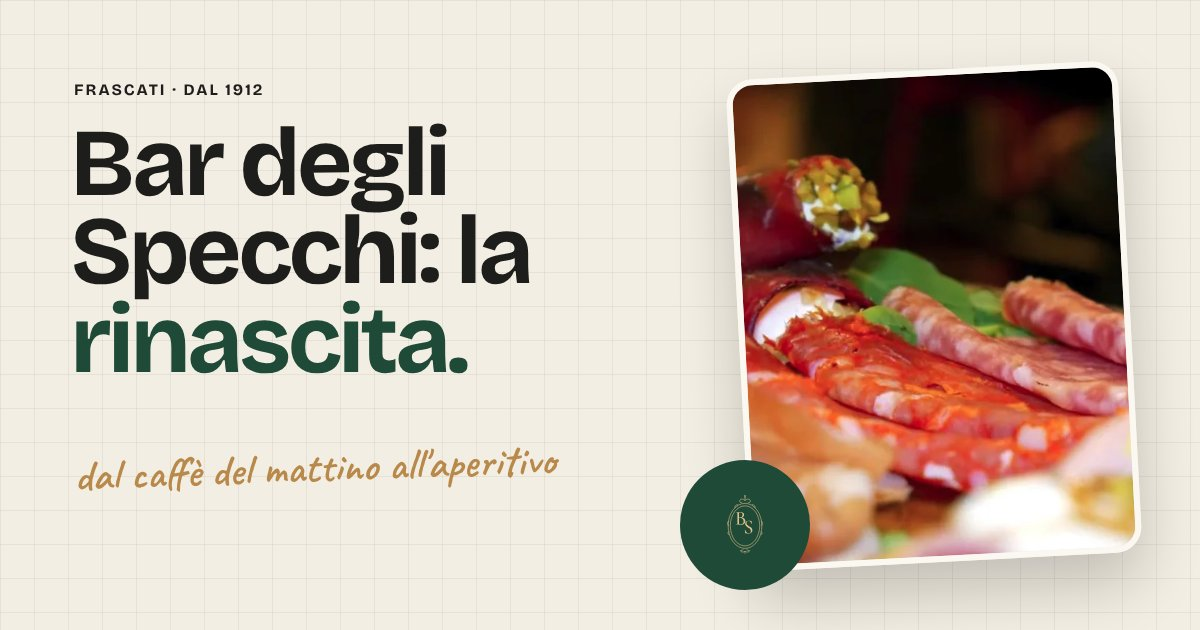
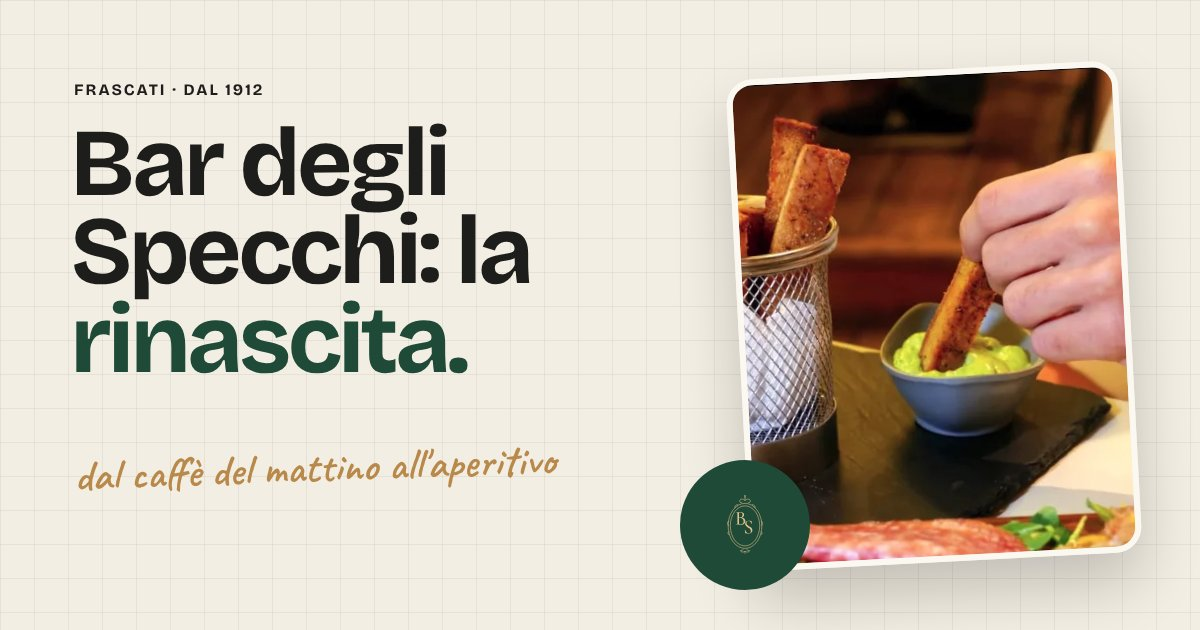
Aperitivo stagionale: via elenco piatti e foto tagliere, card menu completo
Claude-Session: https://claude.ai/code/session_019L5PrVp5pT1zrgUaSdbt61

Changed region(s): [[0.6167, 0.0905, 0.9558, 0.9048]]

diff --git a/public/index.html b/public/index.html
@@ -4,7 +4,7 @@
   <meta charset="utf-8">
   <meta name="viewport" content="width=device-width, initial-scale=1, viewport-fit=cover">
   <title>Bar degli Specchi — Bar e aperitivo a Frascati dal 1912</title>
-  <meta name="description" content="Bar degli Specchi, dal 1912 in via Cesare Battisti 3 a Frascati. Dal caffè del mattino all'aperitivo della sera: taglieri, pinsa gourmet e cocktail.">
+  <meta name="description" content="Bar degli Specchi, dal 1912 in via Cesare Battisti 3 a Frascati. Dal caffè del mattino all'aperitivo della sera: spritz, cocktail e proposte di stagione.">
   <meta name="robots" content="noindex, nofollow">
   <link rel="canonical" href="https://bardeglispecchi3.yuvraj-chander.workers.dev/">
   <meta name="theme-color" content="#f3eee3">
@@ -24,7 +24,7 @@
   <link rel="manifest" href="/site.webmanifest">
   <link rel="preload" href="/assets/fonts/bricolage-grotesque-latin-700-normal.woff2" as="font" type="font/woff2" crossorigin>
   <link rel="preload" href="/assets/fonts/caveat-latin-600-normal.woff2" as="font" type="font/woff2" crossorigin>
-  <link rel="stylesheet" href="/assets/css/style.css?v=3">
+  <link rel="stylesheet" href="/assets/css/style.css?v=4">
   <link rel="stylesheet" href="/assets/css/cookie-consent.css?v=1">
   <script src="/assets/js/main.js?v=3" defer></script>
   <script src="/assets/js/cookie-consent.js?v=1" defer></script>
@@ -91,7 +91,7 @@
           </div>
         </div>
         <div class="hero__media" data-in>
-          <figure class="pcard pcard--a"><img src="/assets/img/tagliere-salumi-736.webp" srcset="/assets/img/tagliere-salumi-480.webp 480w, /assets/img/tagliere-salumi-736.webp 736w" sizes="(max-width: 860px) 80vw, 36vw" width="736" height="512" alt="Tagliere con cannoli di bresaola al pistacchio e salumi selezionati" fetchpriority="high"></figure>
+          <figure class="pcard pcard--a"><img src="/assets/img/aperitivo-crostini-736.webp" srcset="/assets/img/aperitivo-crostini-480.webp 480w, /assets/img/aperitivo-crostini-736.webp 736w" sizes="(max-width: 860px) 80vw, 36vw" width="736" height="512" alt="Crostini croccanti intinti nella crema dello chef, all'aperitivo" fetchpriority="high"></figure>
           <figure class="pcard pcard--b"><img src="/assets/img/pinsa-gourmet-480.webp" width="480" height="334" alt="Trancio di pinsa gourmet con crema di formaggio e glassa balsamica" decoding="async"></figure>
           <div class="badge" aria-hidden="true">
             <svg class="badge__ring" viewBox="0 0 200 200"><defs><path id="circ" d="M100,100 m-78,0 a78,78 0 1,1 156,0 a78,78 0 1,1 -156,0"/></defs><text><textPath href="#circ" startOffset="0">BAR DEGLI SPECCHI · DAL 1912 · FRASCATI · </textPath></text></svg>
@@ -113,7 +113,7 @@
 <ellipse class="fr fr-i" cx="200" cy="128" rx="47" ry="64"/>
 <path class="fr fr-orn" d="M200 47c-6-7-16-6-17 1-1 5 5 8 8 4M200 47c6-7 16-6 17 1 1 5-5 8-8 4M200 47v-9m0 0c-3-4-1-8 0-9 1 1 3 5 0 9M178 60c-8 0-12 6-10 11M222 60c8 0 12 6 10 11M148 112c-5 4-5 12 0 16M252 112c5 4 5 12 0 16M148 146c-4 3-3 9 1 11M252 146c4 3 3 9-1 11M200 209c-5 4-13 4-15-2 4 0 8-1 10-4M200 209c5 4 13 4 15-2-4 0-8-1-10-4M200 209v8"/><path class="mono" d="M187.1 102.2 187.8 101.4Q191.8 101.4 194.7 102.8Q197.7 104.2 199.3 106.7Q201 109.1 201 112.3Q201 115.7 199.2 118.4Q197.5 121.1 194.4 122.7Q191.4 124.3 187.6 124.3Q185.7 124.3 183.1 124.1Q180.4 123.9 178.3 123.9Q176.1 123.9 174.1 123.9Q172.1 124 170.5 124Q170.3 124 170.3 123.6Q170.3 123.2 170.5 123.2Q172.6 123.2 173.8 122.9Q174.9 122.6 175.3 121.6Q175.8 120.7 175.8 118.8V89.2Q175.8 87.3 175.4 86.4Q175 85.5 173.9 85.1Q172.8 84.8 170.6 84.8Q170.4 84.8 170.4 84.4Q170.4 84 170.6 84Q172.2 84 174.1 84.1Q176.1 84.2 178.3 84.2Q180 84.2 182.1 84Q184.2 83.8 185.9 83.8Q189.7 83.8 192.2 84.9Q194.6 85.9 195.9 87.8Q197.1 89.7 197.1 92.2Q197.1 95.8 194.4 98.5Q191.7 101.2 187.1 102.2ZM184.7 84.9Q183.2 84.9 182.4 85.2Q181.5 85.5 181.2 86.4Q180.8 87.3 180.8 89.3V101.9L178.7 101.3Q180.8 101.5 182.1 101.5Q183.4 101.5 183.6 101.5Q188.1 101.5 190.1 99Q192.1 96.4 192.1 92.7Q192.1 90.4 191.3 88.6Q190.5 86.9 188.9 85.9Q187.3 84.9 184.7 84.9ZM186.6 123Q191.2 123 193.4 120.6Q195.5 118.2 195.5 113.8Q195.5 109.1 192.9 106Q190.3 103 185.2 103Q184 102.9 182.3 103Q180.6 103.1 178.9 103.3L180.8 102.6V118.8Q180.8 120.3 181.2 121.2Q181.6 122.1 182.9 122.6Q184.1 123 186.6 123Z"/><path class="mono" d="M204.9 119.2Q204.9 121.7 206.2 123.6Q207.4 125.4 209.5 126.9Q211.5 128.3 213.8 129.7Q216.2 131.1 218.4 132.7Q220.6 134.3 222.1 136.5Q223.5 138.6 223.5 141.7Q223.5 144.8 221.9 147.3Q220.2 149.8 217.3 151.3Q214.3 152.8 210.1 152.8Q208.5 152.8 206.8 152.5Q205.1 152.2 203.5 151.7Q202 151.2 200.7 150.4Q200.5 150.2 200.3 150Q200.2 149.7 200.2 149.2L199.5 140Q199.4 139.7 199.8 139.7Q200.2 139.6 200.2 139.9Q200.8 141.9 201.8 143.9Q202.7 146 204.1 147.7Q205.4 149.4 207.3 150.5Q209.2 151.6 211.7 151.6Q213.4 151.6 215 150.9Q216.7 150.3 217.7 148.8Q218.7 147.3 218.7 144.6Q218.7 141.5 217.4 139.4Q216 137.3 213.9 135.7Q211.8 134.2 209.4 132.8Q207.2 131.4 205.1 129.9Q203 128.3 201.8 126.3Q200.5 124.3 200.5 121.4Q200.5 118 202.3 115.7Q204.1 113.5 207 112.4Q209.8 111.3 212.8 111.3Q214.8 111.3 216.9 111.7Q218.9 112.1 220.6 112.8Q221.1 113 221.3 113.3Q221.5 113.6 221.5 113.9L221.8 121.9Q221.8 122.1 221.5 122.2Q221.2 122.2 221.1 122Q220.9 120.9 220.2 119.3Q219.6 117.6 218.5 116.1Q217.4 114.5 215.7 113.4Q214 112.4 211.6 112.4Q209.4 112.4 207.9 113.3Q206.4 114.2 205.7 115.7Q204.9 117.2 204.9 119.2Z"/></svg></span><span class="band__item">Taglieri<svg class="mark band__mark" viewBox="136 26 128 200"><ellipse class="fr fr-o" cx="200" cy="128" rx="54" ry="72"/>
 <ellipse class="fr fr-i" cx="200" cy="128" rx="47" ry="64"/>
-<path class="fr fr-orn" d="M200 47c-6-7-16-6-17 1-1 5 5 8 8 4M200 47c6-7 16-6 17 1 1 5-5 8-8 4M200 47v-9m0 0c-3-4-1-8 0-9 1 1 3 5 0 9M178 60c-8 0-12 6-10 11M222 60c8 0 12 6 10 11M148 112c-5 4-5 12 0 16M252 112c5 4 5 12 0 16M148 146c-4 3-3 9 1 11M252 146c4 3 3 9-1 11M200 209c-5 4-13 4-15-2 4 0 8-1 10-4M200 209c5 4 13 4 15-2-4 0-8-1-10-4M200 209v8"/><path class="mono" d="M187.1 102.2 187.8 101.4Q191.8 101.4 194.7 102.8Q197.7 104.2 199.3 106.7Q201 109.1 201 112.3Q201 115.7 199.2 118.4Q197.5 121.1 194.4 122.7Q191.4 124.3 187.6 124.3Q185.7 124.3 183.1 124.1Q180.4 123.9 178.3 123.9Q176.1 123.9 174.1 123.9Q172.1 124 170.5 124Q170.3 124 170.3 123.6Q170.3 123.2 170.5 123.2Q172.6 123.2 173.8 122.9Q174.9 122.6 175.3 121.6Q175.8 120.7 175.8 118.8V89.2Q175.8 87.3 175.4 86.4Q175 85.5 173.9 85.1Q172.8 84.8 170.6 84.8Q170.4 84.8 170.4 84.4Q170.4 84 170.6 84Q172.2 84 174.1 84.1Q176.1 84.2 178.3 84.2Q180 84.2 182.1 84Q184.2 83.8 185.9 83.8Q189.7 83.8 192.2 84.9Q194.6 85.9 195.9 87.8Q197.1 89.7 197.1 92.2Q197.1 95.8 194.4 98.5Q191.7 101.2 187.1 102.2ZM184.7 84.9Q183.2 84.9 182.4 85.2Q181.5 85.5 181.2 86.4Q180.8 87.3 180.8 89.3V101.9L178.7 101.3Q180.8 101.5 182.1 101.5Q183.4 101.5 183.6 101.5Q188.1 101.5 190.1 99Q192.1 96.4 192.1 92.7Q192.1 90.4 191.3 88.6Q190.5 86.9 188.9 85.9Q187.3 84.9 184.7 84.9ZM186.6 123Q191.2 123 193.4 120.6Q195.5 118.2 195.5 113.8Q195.5 109.1 192.9 106Q190.3 103 185.2 103Q184 102.9 182.3 103Q180.6 103.1 178.9 103.3L180.8 102.6V118.8Q180.8 120.3 181.2 121.2Q181.6 122.1 182.9 122.6Q184.1 123 186.6 123Z"/><path class="mono" d="M204.9 119.2Q204.9 121.7 206.2 123.6Q207.4 125.4 209.5 126.9Q211.5 128.3 213.8 129.7Q216.2 131.1 218.4 132.7Q220.6 134.3 222.1 136.5Q223.5 138.6 223.5 141.7Q223.5 144.8 221.9 147.3Q220.2 149.8 217.3 151.3Q214.3 152.8 210.1 152.8Q208.5 152.8 206.8 152.5Q205.1 152.2 203.5 151.7Q202 151.2 200.7 150.4Q200.5 150.2 200.3 150Q200.2 149.7 200.2 149.2L199.5 140Q199.4 139.7 199.8 139.7Q200.2 139.6 200.2 139.9Q200.8 141.9 201.8 143.9Q202.7 146 204.1 147.7Q205.4 149.4 207.3 150.5Q209.2 151.6 211.7 151.6Q213.4 151.6 215 150.9Q216.7 150.3 217.7 148.8Q218.7 147.3 218.7 144.6Q218.7 141.5 217.4 139.4Q216 137.3 213.9 135.7Q211.8 134.2 209.4 132.8Q207.2 131.4 205.1 129.9Q203 128.3 201.8 126.3Q200.5 124.3 200.5 121.4Q200.5 118 202.3 115.7Q204.1 113.5 207 112.4Q209.8 111.3 212.8 111.3Q214.8 111.3 216.9 111.7Q218.9 112.1 220.6 112.8Q221.1 113 221.3 113.3Q221.5 113.6 221.5 113.9L221.8 121.9Q221.8 122.1 221.5 122.2Q221.2 122.2 221.1 122Q220.9 120.9 220.2 119.3Q219.6 117.6 218.5 116.1Q217.4 114.5 215.7 113.4Q214 112.4 211.6 112.4Q209.4 112.4 207.9 113.3Q206.4 114.2 205.7 115.7Q204.9 117.2 204.9 119.2Z"/></svg></span><span class="band__item">Pinsa gourmet<svg class="mark band__mark" viewBox="136 26 128 200"><ellipse class="fr fr-o" cx="200" cy="128" rx="54" ry="72"/>
+<path class="fr fr-orn" d="M200 47c-6-7-16-6-17 1-1 5 5 8 8 4M200 47c6-7 16-6 17 1 1 5-5 8-8 4M200 47v-9m0 0c-3-4-1-8 0-9 1 1 3 5 0 9M178 60c-8 0-12 6-10 11M222 60c8 0 12 6 10 11M148 112c-5 4-5 12 0 16M252 112c5 4 5 12 0 16M148 146c-4 3-3 9 1 11M252 146c4 3 3 9-1 11M200 209c-5 4-13 4-15-2 4 0 8-1 10-4M200 209c5 4 13 4 15-2-4 0-8-1-10-4M200 209v8"/><path class="mono" d="M187.1 102.2 187.8 101.4Q191.8 101.4 194.7 102.8Q197.7 104.2 199.3 106.7Q201 109.1 201 112.3Q201 115.7 199.2 118.4Q197.5 121.1 194.4 122.7Q191.4 124.3 187.6 124.3Q185.7 124.3 183.1 124.1Q180.4 123.9 178.3 123.9Q176.1 123.9 174.1 123.9Q172.1 124 170.5 124Q170.3 124 170.3 123.6Q170.3 123.2 170.5 123.2Q172.6 123.2 173.8 122.9Q174.9 122.6 175.3 121.6Q175.8 120.7 175.8 118.8V89.2Q175.8 87.3 175.4 86.4Q175 85.5 173.9 85.1Q172.8 84.8 170.6 84.8Q170.4 84.8 170.4 84.4Q170.4 84 170.6 84Q172.2 84 174.1 84.1Q176.1 84.2 178.3 84.2Q180 84.2 182.1 84Q184.2 83.8 185.9 83.8Q189.7 83.8 192.2 84.9Q194.6 85.9 195.9 87.8Q197.1 89.7 197.1 92.2Q197.1 95.8 194.4 98.5Q191.7 101.2 187.1 102.2ZM184.7 84.9Q183.2 84.9 182.4 85.2Q181.5 85.5 181.2 86.4Q180.8 87.3 180.8 89.3V101.9L178.7 101.3Q180.8 101.5 182.1 101.5Q183.4 101.5 183.6 101.5Q188.1 101.5 190.1 99Q192.1 96.4 192.1 92.7Q192.1 90.4 191.3 88.6Q190.5 86.9 188.9 85.9Q187.3 84.9 184.7 84.9ZM186.6 123Q191.2 123 193.4 120.6Q195.5 118.2 195.5 113.8Q195.5 109.1 192.9 106Q190.3 103 185.2 103Q184 102.9 182.3 103Q180.6 103.1 178.9 103.3L180.8 102.6V118.8Q180.8 120.3 181.2 121.2Q181.6 122.1 182.9 122.6Q184.1 123 186.6 123Z"/><path class="mono" d="M204.9 119.2Q204.9 121.7 206.2 123.6Q207.4 125.4 209.5 126.9Q211.5 128.3 213.8 129.7Q216.2 131.1 218.4 132.7Q220.6 134.3 222.1 136.5Q223.5 138.6 223.5 141.7Q223.5 144.8 221.9 147.3Q220.2 149.8 217.3 151.3Q214.3 152.8 210.1 152.8Q208.5 152.8 206.8 152.5Q205.1 152.2 203.5 151.7Q202 151.2 200.7 150.4Q200.5 150.2 200.3 150Q200.2 149.7 200.2 149.2L199.5 140Q199.4 139.7 199.8 139.7Q200.2 139.6 200.2 139.9Q200.8 141.9 201.8 143.9Q202.7 146 204.1 147.7Q205.4 149.4 207.3 150.5Q209.2 151.6 211.7 151.6Q213.4 151.6 215 150.9Q216.7 150.3 217.7 148.8Q218.7 147.3 218.7 144.6Q218.7 141.5 217.4 139.4Q216 137.3 213.9 135.7Q211.8 134.2 209.4 132.8Q207.2 131.4 205.1 129.9Q203 128.3 201.8 126.3Q200.5 124.3 200.5 121.4Q200.5 118 202.3 115.7Q204.1 113.5 207 112.4Q209.8 111.3 212.8 111.3Q214.8 111.3 216.9 111.7Q218.9 112.1 220.6 112.8Q221.1 113 221.3 113.3Q221.5 113.6 221.5 113.9L221.8 121.9Q221.8 122.1 221.5 122.2Q221.2 122.2 221.1 122Q220.9 120.9 220.2 119.3Q219.6 117.6 218.5 116.1Q217.4 114.5 215.7 113.4Q214 112.4 211.6 112.4Q209.4 112.4 207.9 113.3Q206.4 114.2 205.7 115.7Q204.9 117.2 204.9 119.2Z"/></svg></span><span class="band__item">Spritz<svg class="mark band__mark" viewBox="136 26 128 200"><ellipse class="fr fr-o" cx="200" cy="128" rx="54" ry="72"/>
 <ellipse class="fr fr-i" cx="200" cy="128" rx="47" ry="64"/>
 <path class="fr fr-orn" d="M200 47c-6-7-16-6-17 1-1 5 5 8 8 4M200 47c6-7 16-6 17 1 1 5-5 8-8 4M200 47v-9m0 0c-3-4-1-8 0-9 1 1 3 5 0 9M178 60c-8 0-12 6-10 11M222 60c8 0 12 6 10 11M148 112c-5 4-5 12 0 16M252 112c5 4 5 12 0 16M148 146c-4 3-3 9 1 11M252 146c4 3 3 9-1 11M200 209c-5 4-13 4-15-2 4 0 8-1 10-4M200 209c5 4 13 4 15-2-4 0-8-1-10-4M200 209v8"/><path class="mono" d="M187.1 102.2 187.8 101.4Q191.8 101.4 194.7 102.8Q197.7 104.2 199.3 106.7Q201 109.1 201 112.3Q201 115.7 199.2 118.4Q197.5 121.1 194.4 122.7Q191.4 124.3 187.6 124.3Q185.7 124.3 183.1 124.1Q180.4 123.9 178.3 123.9Q176.1 123.9 174.1 123.9Q172.1 124 170.5 124Q170.3 124 170.3 123.6Q170.3 123.2 170.5 123.2Q172.6 123.2 173.8 122.9Q174.9 122.6 175.3 121.6Q175.8 120.7 175.8 118.8V89.2Q175.8 87.3 175.4 86.4Q175 85.5 173.9 85.1Q172.8 84.8 170.6 84.8Q170.4 84.8 170.4 84.4Q170.4 84 170.6 84Q172.2 84 174.1 84.1Q176.1 84.2 178.3 84.2Q180 84.2 182.1 84Q184.2 83.8 185.9 83.8Q189.7 83.8 192.2 84.9Q194.6 85.9 195.9 87.8Q197.1 89.7 197.1 92.2Q197.1 95.8 194.4 98.5Q191.7 101.2 187.1 102.2ZM184.7 84.9Q183.2 84.9 182.4 85.2Q181.5 85.5 181.2 86.4Q180.8 87.3 180.8 89.3V101.9L178.7 101.3Q180.8 101.5 182.1 101.5Q183.4 101.5 183.6 101.5Q188.1 101.5 190.1 99Q192.1 96.4 192.1 92.7Q192.1 90.4 191.3 88.6Q190.5 86.9 188.9 85.9Q187.3 84.9 184.7 84.9ZM186.6 123Q191.2 123 193.4 120.6Q195.5 118.2 195.5 113.8Q195.5 109.1 192.9 106Q190.3 103 185.2 103Q184 102.9 182.3 103Q180.6 103.1 178.9 103.3L180.8 102.6V118.8Q180.8 120.3 181.2 121.2Q181.6 122.1 182.9 122.6Q184.1 123 186.6 123Z"/><path class="mono" d="M204.9 119.2Q204.9 121.7 206.2 123.6Q207.4 125.4 209.5 126.9Q211.5 128.3 213.8 129.7Q216.2 131.1 218.4 132.7Q220.6 134.3 222.1 136.5Q223.5 138.6 223.5 141.7Q223.5 144.8 221.9 147.3Q220.2 149.8 217.3 151.3Q214.3 152.8 210.1 152.8Q208.5 152.8 206.8 152.5Q205.1 152.2 203.5 151.7Q202 151.2 200.7 150.4Q200.5 150.2 200.3 150Q200.2 149.7 200.2 149.2L199.5 140Q199.4 139.7 199.8 139.7Q200.2 139.6 200.2 139.9Q200.8 141.9 201.8 143.9Q202.7 146 204.1 147.7Q205.4 149.4 207.3 150.5Q209.2 151.6 211.7 151.6Q213.4 151.6 215 150.9Q216.7 150.3 217.7 148.8Q218.7 147.3 218.7 144.6Q218.7 141.5 217.4 139.4Q216 137.3 213.9 135.7Q211.8 134.2 209.4 132.8Q207.2 131.4 205.1 129.9Q203 128.3 201.8 126.3Q200.5 124.3 200.5 121.4Q200.5 118 202.3 115.7Q204.1 113.5 207 112.4Q209.8 111.3 212.8 111.3Q214.8 111.3 216.9 111.7Q218.9 112.1 220.6 112.8Q221.1 113 221.3 113.3Q221.5 113.6 221.5 113.9L221.8 121.9Q221.8 122.1 221.5 122.2Q221.2 122.2 221.1 122Q220.9 120.9 220.2 119.3Q219.6 117.6 218.5 116.1Q217.4 114.5 215.7 113.4Q214 112.4 211.6 112.4Q209.4 112.4 207.9 113.3Q206.4 114.2 205.7 115.7Q204.9 117.2 204.9 119.2Z"/></svg></span><span class="band__item">Cocktail<svg class="mark band__mark" viewBox="136 26 128 200"><ellipse class="fr fr-o" cx="200" cy="128" rx="54" ry="72"/>
 <ellipse class="fr fr-i" cx="200" cy="128" rx="47" ry="64"/>
@@ -127,7 +127,7 @@
 <ellipse class="fr fr-i" cx="200" cy="128" rx="47" ry="64"/>
 <path class="fr fr-orn" d="M200 47c-6-7-16-6-17 1-1 5 5 8 8 4M200 47c6-7 16-6 17 1 1 5-5 8-8 4M200 47v-9m0 0c-3-4-1-8 0-9 1 1 3 5 0 9M178 60c-8 0-12 6-10 11M222 60c8 0 12 6 10 11M148 112c-5 4-5 12 0 16M252 112c5 4 5 12 0 16M148 146c-4 3-3 9 1 11M252 146c4 3 3 9-1 11M200 209c-5 4-13 4-15-2 4 0 8-1 10-4M200 209c5 4 13 4 15-2-4 0-8-1-10-4M200 209v8"/><path class="mono" d="M187.1 102.2 187.8 101.4Q191.8 101.4 194.7 102.8Q197.7 104.2 199.3 106.7Q201 109.1 201 112.3Q201 115.7 199.2 118.4Q197.5 121.1 194.4 122.7Q191.4 124.3 187.6 124.3Q185.7 124.3 183.1 124.1Q180.4 123.9 178.3 123.9Q176.1 123.9 174.1 123.9Q172.1 124 170.5 124Q170.3 124 170.3 123.6Q170.3 123.2 170.5 123.2Q172.6 123.2 173.8 122.9Q174.9 122.6 175.3 121.6Q175.8 120.7 175.8 118.8V89.2Q175.8 87.3 175.4 86.4Q175 85.5 173.9 85.1Q172.8 84.8 170.6 84.8Q170.4 84.8 170.4 84.4Q170.4 84 170.6 84Q172.2 84 174.1 84.1Q176.1 84.2 178.3 84.2Q180 84.2 182.1 84Q184.2 83.8 185.9 83.8Q189.7 83.8 192.2 84.9Q194.6 85.9 195.9 87.8Q197.1 89.7 197.1 92.2Q197.1 95.8 194.4 98.5Q191.7 101.2 187.1 102.2ZM184.7 84.9Q183.2 84.9 182.4 85.2Q181.5 85.5 181.2 86.4Q180.8 87.3 180.8 89.3V101.9L178.7 101.3Q180.8 101.5 182.1 101.5Q183.4 101.5 183.6 101.5Q188.1 101.5 190.1 99Q192.1 96.4 192.1 92.7Q192.1 90.4 191.3 88.6Q190.5 86.9 188.9 85.9Q187.3 84.9 184.7 84.9ZM186.6 123Q191.2 123 193.4 120.6Q195.5 118.2 195.5 113.8Q195.5 109.1 192.9 106Q190.3 103 185.2 103Q184 102.9 182.3 103Q180.6 103.1 178.9 103.3L180.8 102.6V118.8Q180.8 120.3 181.2 121.2Q181.6 122.1 182.9 122.6Q184.1 123 186.6 123Z"/><path class="mono" d="M204.9 119.2Q204.9 121.7 206.2 123.6Q207.4 125.4 209.5 126.9Q211.5 128.3 213.8 129.7Q216.2 131.1 218.4 132.7Q220.6 134.3 222.1 136.5Q223.5 138.6 223.5 141.7Q223.5 144.8 221.9 147.3Q220.2 149.8 217.3 151.3Q214.3 152.8 210.1 152.8Q208.5 152.8 206.8 152.5Q205.1 152.2 203.5 151.7Q202 151.2 200.7 150.4Q200.5 150.2 200.3 150Q200.2 149.7 200.2 149.2L199.5 140Q199.4 139.7 199.8 139.7Q200.2 139.6 200.2 139.9Q200.8 141.9 201.8 143.9Q202.7 146 204.1 147.7Q205.4 149.4 207.3 150.5Q209.2 151.6 211.7 151.6Q213.4 151.6 215 150.9Q216.7 150.3 217.7 148.8Q218.7 147.3 218.7 144.6Q218.7 141.5 217.4 139.4Q216 137.3 213.9 135.7Q211.8 134.2 209.4 132.8Q207.2 131.4 205.1 129.9Q203 128.3 201.8 126.3Q200.5 124.3 200.5 121.4Q200.5 118 202.3 115.7Q204.1 113.5 207 112.4Q209.8 111.3 212.8 111.3Q214.8 111.3 216.9 111.7Q218.9 112.1 220.6 112.8Q221.1 113 221.3 113.3Q221.5 113.6 221.5 113.9L221.8 121.9Q221.8 122.1 221.5 122.2Q221.2 122.2 221.1 122Q220.9 120.9 220.2 119.3Q219.6 117.6 218.5 116.1Q217.4 114.5 215.7 113.4Q214 112.4 211.6 112.4Q209.4 112.4 207.9 113.3Q206.4 114.2 205.7 115.7Q204.9 117.2 204.9 119.2Z"/></svg></span><span class="band__item">Taglieri<svg class="mark band__mark" viewBox="136 26 128 200"><ellipse class="fr fr-o" cx="200" cy="128" rx="54" ry="72"/>
 <ellipse class="fr fr-i" cx="200" cy="128" rx="47" ry="64"/>
-<path class="fr fr-orn" d="M200 47c-6-7-16-6-17 1-1 5 5 8 8 4M200 47c6-7 16-6 17 1 1 5-5 8-8 4M200 47v-9m0 0c-3-4-1-8 0-9 1 1 3 5 0 9M178 60c-8 0-12 6-10 11M222 60c8 0 12 6 10 11M148 112c-5 4-5 12 0 16M252 112c5 4 5 12 0 16M148 146c-4 3-3 9 1 11M252 146c4 3 3 9-1 11M200 209c-5 4-13 4-15-2 4 0 8-1 10-4M200 209c5 4 13 4 15-2-4 0-8-1-10-4M200 209v8"/><path class="mono" d="M187.1 102.2 187.8 101.4Q191.8 101.4 194.7 102.8Q197.7 104.2 199.3 106.7Q201 109.1 201 112.3Q201 115.7 199.2 118.4Q197.5 121.1 194.4 122.7Q191.4 124.3 187.6 124.3Q185.7 124.3 183.1 124.1Q180.4 123.9 178.3 123.9Q176.1 123.9 174.1 123.9Q172.1 124 170.5 124Q170.3 124 170.3 123.6Q170.3 123.2 170.5 123.2Q172.6 123.2 173.8 122.9Q174.9 122.6 175.3 121.6Q175.8 120.7 175.8 118.8V89.2Q175.8 87.3 175.4 86.4Q175 85.5 173.9 85.1Q172.8 84.8 170.6 84.8Q170.4 84.8 170.4 84.4Q170.4 84 170.6 84Q172.2 84 174.1 84.1Q176.1 84.2 178.3 84.2Q180 84.2 182.1 84Q184.2 83.8 185.9 83.8Q189.7 83.8 192.2 84.9Q194.6 85.9 195.9 87.8Q197.1 89.7 197.1 92.2Q197.1 95.8 194.4 98.5Q191.7 101.2 187.1 102.2ZM184.7 84.9Q183.2 84.9 182.4 85.2Q181.5 85.5 181.2 86.4Q180.8 87.3 180.8 89.3V101.9L178.7 101.3Q180.8 101.5 182.1 101.5Q183.4 101.5 183.6 101.5Q188.1 101.5 190.1 99Q192.1 96.4 192.1 92.7Q192.1 90.4 191.3 88.6Q190.5 86.9 188.9 85.9Q187.3 84.9 184.7 84.9ZM186.6 123Q191.2 123 193.4 120.6Q195.5 118.2 195.5 113.8Q195.5 109.1 192.9 106Q190.3 103 185.2 103Q184 102.9 182.3 103Q180.6 103.1 178.9 103.3L180.8 102.6V118.8Q180.8 120.3 181.2 121.2Q181.6 122.1 182.9 122.6Q184.1 123 186.6 123Z"/><path class="mono" d="M204.9 119.2Q204.9 121.7 206.2 123.6Q207.4 125.4 209.5 126.9Q211.5 128.3 213.8 129.7Q216.2 131.1 218.4 132.7Q220.6 134.3 222.1 136.5Q223.5 138.6 223.5 141.7Q223.5 144.8 221.9 147.3Q220.2 149.8 217.3 151.3Q214.3 152.8 210.1 152.8Q208.5 152.8 206.8 152.5Q205.1 152.2 203.5 151.7Q202 151.2 200.7 150.4Q200.5 150.2 200.3 150Q200.2 149.7 200.2 149.2L199.5 140Q199.4 139.7 199.8 139.7Q200.2 139.6 200.2 139.9Q200.8 141.9 201.8 143.9Q202.7 146 204.1 147.7Q205.4 149.4 207.3 150.5Q209.2 151.6 211.7 151.6Q213.4 151.6 215 150.9Q216.7 150.3 217.7 148.8Q218.7 147.3 218.7 144.6Q218.7 141.5 217.4 139.4Q216 137.3 213.9 135.7Q211.8 134.2 209.4 132.8Q207.2 131.4 205.1 129.9Q203 128.3 201.8 126.3Q200.5 124.3 200.5 121.4Q200.5 118 202.3 115.7Q204.1 113.5 207 112.4Q209.8 111.3 212.8 111.3Q214.8 111.3 216.9 111.7Q218.9 112.1 220.6 112.8Q221.1 113 221.3 113.3Q221.5 113.6 221.5 113.9L221.8 121.9Q221.8 122.1 221.5 122.2Q221.2 122.2 221.1 122Q220.9 120.9 220.2 119.3Q219.6 117.6 218.5 116.1Q217.4 114.5 215.7 113.4Q214 112.4 211.6 112.4Q209.4 112.4 207.9 113.3Q206.4 114.2 205.7 115.7Q204.9 117.2 204.9 119.2Z"/></svg></span><span class="band__item">Pinsa gourmet<svg class="mark band__mark" viewBox="136 26 128 200"><ellipse class="fr fr-o" cx="200" cy="128" rx="54" ry="72"/>
+<path class="fr fr-orn" d="M200 47c-6-7-16-6-17 1-1 5 5 8 8 4M200 47c6-7 16-6 17 1 1 5-5 8-8 4M200 47v-9m0 0c-3-4-1-8 0-9 1 1 3 5 0 9M178 60c-8 0-12 6-10 11M222 60c8 0 12 6 10 11M148 112c-5 4-5 12 0 16M252 112c5 4 5 12 0 16M148 146c-4 3-3 9 1 11M252 146c4 3 3 9-1 11M200 209c-5 4-13 4-15-2 4 0 8-1 10-4M200 209c5 4 13 4 15-2-4 0-8-1-10-4M200 209v8"/><path class="mono" d="M187.1 102.2 187.8 101.4Q191.8 101.4 194.7 102.8Q197.7 104.2 199.3 106.7Q201 109.1 201 112.3Q201 115.7 199.2 118.4Q197.5 121.1 194.4 122.7Q191.4 124.3 187.6 124.3Q185.7 124.3 183.1 124.1Q180.4 123.9 178.3 123.9Q176.1 123.9 174.1 123.9Q172.1 124 170.5 124Q170.3 124 170.3 123.6Q170.3 123.2 170.5 123.2Q172.6 123.2 173.8 122.9Q174.9 122.6 175.3 121.6Q175.8 120.7 175.8 118.8V89.2Q175.8 87.3 175.4 86.4Q175 85.5 173.9 85.1Q172.8 84.8 170.6 84.8Q170.4 84.8 170.4 84.4Q170.4 84 170.6 84Q172.2 84 174.1 84.1Q176.1 84.2 178.3 84.2Q180 84.2 182.1 84Q184.2 83.8 185.9 83.8Q189.7 83.8 192.2 84.9Q194.6 85.9 195.9 87.8Q197.1 89.7 197.1 92.2Q197.1 95.8 194.4 98.5Q191.7 101.2 187.1 102.2ZM184.7 84.9Q183.2 84.9 182.4 85.2Q181.5 85.5 181.2 86.4Q180.8 87.3 180.8 89.3V101.9L178.7 101.3Q180.8 101.5 182.1 101.5Q183.4 101.5 183.6 101.5Q188.1 101.5 190.1 99Q192.1 96.4 192.1 92.7Q192.1 90.4 191.3 88.6Q190.5 86.9 188.9 85.9Q187.3 84.9 184.7 84.9ZM186.6 123Q191.2 123 193.4 120.6Q195.5 118.2 195.5 113.8Q195.5 109.1 192.9 106Q190.3 103 185.2 103Q184 102.9 182.3 103Q180.6 103.1 178.9 103.3L180.8 102.6V118.8Q180.8 120.3 181.2 121.2Q181.6 122.1 182.9 122.6Q184.1 123 186.6 123Z"/><path class="mono" d="M204.9 119.2Q204.9 121.7 206.2 123.6Q207.4 125.4 209.5 126.9Q211.5 128.3 213.8 129.7Q216.2 131.1 218.4 132.7Q220.6 134.3 222.1 136.5Q223.5 138.6 223.5 141.7Q223.5 144.8 221.9 147.3Q220.2 149.8 217.3 151.3Q214.3 152.8 210.1 152.8Q208.5 152.8 206.8 152.5Q205.1 152.2 203.5 151.7Q202 151.2 200.7 150.4Q200.5 150.2 200.3 150Q200.2 149.7 200.2 149.2L199.5 140Q199.4 139.7 199.8 139.7Q200.2 139.6 200.2 139.9Q200.8 141.9 201.8 143.9Q202.7 146 204.1 147.7Q205.4 149.4 207.3 150.5Q209.2 151.6 211.7 151.6Q213.4 151.6 215 150.9Q216.7 150.3 217.7 148.8Q218.7 147.3 218.7 144.6Q218.7 141.5 217.4 139.4Q216 137.3 213.9 135.7Q211.8 134.2 209.4 132.8Q207.2 131.4 205.1 129.9Q203 128.3 201.8 126.3Q200.5 124.3 200.5 121.4Q200.5 118 202.3 115.7Q204.1 113.5 207 112.4Q209.8 111.3 212.8 111.3Q214.8 111.3 216.9 111.7Q218.9 112.1 220.6 112.8Q221.1 113 221.3 113.3Q221.5 113.6 221.5 113.9L221.8 121.9Q221.8 122.1 221.5 122.2Q221.2 122.2 221.1 122Q220.9 120.9 220.2 119.3Q219.6 117.6 218.5 116.1Q217.4 114.5 215.7 113.4Q214 112.4 211.6 112.4Q209.4 112.4 207.9 113.3Q206.4 114.2 205.7 115.7Q204.9 117.2 204.9 119.2Z"/></svg></span><span class="band__item">Spritz<svg class="mark band__mark" viewBox="136 26 128 200"><ellipse class="fr fr-o" cx="200" cy="128" rx="54" ry="72"/>
 <ellipse class="fr fr-i" cx="200" cy="128" rx="47" ry="64"/>
 <path class="fr fr-orn" d="M200 47c-6-7-16-6-17 1-1 5 5 8 8 4M200 47c6-7 16-6 17 1 1 5-5 8-8 4M200 47v-9m0 0c-3-4-1-8 0-9 1 1 3 5 0 9M178 60c-8 0-12 6-10 11M222 60c8 0 12 6 10 11M148 112c-5 4-5 12 0 16M252 112c5 4 5 12 0 16M148 146c-4 3-3 9 1 11M252 146c4 3 3 9-1 11M200 209c-5 4-13 4-15-2 4 0 8-1 10-4M200 209c5 4 13 4 15-2-4 0-8-1-10-4M200 209v8"/><path class="mono" d="M187.1 102.2 187.8 101.4Q191.8 101.4 194.7 102.8Q197.7 104.2 199.3 106.7Q201 109.1 201 112.3Q201 115.7 199.2 118.4Q197.5 121.1 194.4 122.7Q191.4 124.3 187.6 124.3Q185.7 124.3 183.1 124.1Q180.4 123.9 178.3 123.9Q176.1 123.9 174.1 123.9Q172.1 124 170.5 124Q170.3 124 170.3 123.6Q170.3 123.2 170.5 123.2Q172.6 123.2 173.8 122.9Q174.9 122.6 175.3 121.6Q175.8 120.7 175.8 118.8V89.2Q175.8 87.3 175.4 86.4Q175 85.5 173.9 85.1Q172.8 84.8 170.6 84.8Q170.4 84.8 170.4 84.4Q170.4 84 170.6 84Q172.2 84 174.1 84.1Q176.1 84.2 178.3 84.2Q180 84.2 182.1 84Q184.2 83.8 185.9 83.8Q189.7 83.8 192.2 84.9Q194.6 85.9 195.9 87.8Q197.1 89.7 197.1 92.2Q197.1 95.8 194.4 98.5Q191.7 101.2 187.1 102.2ZM184.7 84.9Q183.2 84.9 182.4 85.2Q181.5 85.5 181.2 86.4Q180.8 87.3 180.8 89.3V101.9L178.7 101.3Q180.8 101.5 182.1 101.5Q183.4 101.5 183.6 101.5Q188.1 101.5 190.1 99Q192.1 96.4 192.1 92.7Q192.1 90.4 191.3 88.6Q190.5 86.9 188.9 85.9Q187.3 84.9 184.7 84.9ZM186.6 123Q191.2 123 193.4 120.6Q195.5 118.2 195.5 113.8Q195.5 109.1 192.9 106Q190.3 103 185.2 103Q184 102.9 182.3 103Q180.6 103.1 178.9 103.3L180.8 102.6V118.8Q180.8 120.3 181.2 121.2Q181.6 122.1 182.9 122.6Q184.1 123 186.6 123Z"/><path class="mono" d="M204.9 119.2Q204.9 121.7 206.2 123.6Q207.4 125.4 209.5 126.9Q211.5 128.3 213.8 129.7Q216.2 131.1 218.4 132.7Q220.6 134.3 222.1 136.5Q223.5 138.6 223.5 141.7Q223.5 144.8 221.9 147.3Q220.2 149.8 217.3 151.3Q214.3 152.8 210.1 152.8Q208.5 152.8 206.8 152.5Q205.1 152.2 203.5 151.7Q202 151.2 200.7 150.4Q200.5 150.2 200.3 150Q200.2 149.7 200.2 149.2L199.5 140Q199.4 139.7 199.8 139.7Q200.2 139.6 200.2 139.9Q200.8 141.9 201.8 143.9Q202.7 146 204.1 147.7Q205.4 149.4 207.3 150.5Q209.2 151.6 211.7 151.6Q213.4 151.6 215 150.9Q216.7 150.3 217.7 148.8Q218.7 147.3 218.7 144.6Q218.7 141.5 217.4 139.4Q216 137.3 213.9 135.7Q211.8 134.2 209.4 132.8Q207.2 131.4 205.1 129.9Q203 128.3 201.8 126.3Q200.5 124.3 200.5 121.4Q200.5 118 202.3 115.7Q204.1 113.5 207 112.4Q209.8 111.3 212.8 111.3Q214.8 111.3 216.9 111.7Q218.9 112.1 220.6 112.8Q221.1 113 221.3 113.3Q221.5 113.6 221.5 113.9L221.8 121.9Q221.8 122.1 221.5 122.2Q221.2 122.2 221.1 122Q220.9 120.9 220.2 119.3Q219.6 117.6 218.5 116.1Q217.4 114.5 215.7 113.4Q214 112.4 211.6 112.4Q209.4 112.4 207.9 113.3Q206.4 114.2 205.7 115.7Q204.9 117.2 204.9 119.2Z"/></svg></span><span class="band__item">Cocktail<svg class="mark band__mark" viewBox="136 26 128 200"><ellipse class="fr fr-o" cx="200" cy="128" rx="54" ry="72"/>
 <ellipse class="fr fr-i" cx="200" cy="128" rx="47" ry="64"/>
@@ -176,7 +176,7 @@
           <article class="phase" data-phase="2">
             <p class="phase__time">Sera</p>
             <h3 class="phase__t">L'aperitivo si fa<br>sul serio.</h3>
-            <p class="hand phase__hand">taglieri, pinsa e il cocktail giusto</p>
+            <p class="hand phase__hand">spritz, cocktail e proposte di stagione</p>
             <svg class="phase__ill" viewBox="0 0 120 120" aria-hidden="true"><path d="M24 24h72L60 62z"/><path d="M60 62v38M42 102h36"/><path d="M80 18l14-10"/><circle cx="84" cy="34" r="5"/></svg>
           </article>
         </div>
@@ -202,16 +202,16 @@
         <p class="kicker kicker--sm" data-reveal>Tre modi per cominciare</p>
         <div class="tiles">
           <a class="tile" href="/#aperitivo" data-reveal>
-            <img src="/assets/img/tagliere-salumi-736.webp" srcset="/assets/img/tagliere-salumi-480.webp 480w, /assets/img/tagliere-salumi-736.webp 736w" sizes="(max-width: 760px) 92vw, 33vw" width="736" height="512" alt="Tagliere di salumi selezionati" loading="lazy" decoding="async">
-            <span class="tile__l">Un tagliere da dividere →</span>
+            <img src="/assets/img/aperitivo-crostini-736.webp" srcset="/assets/img/aperitivo-crostini-480.webp 480w, /assets/img/aperitivo-crostini-736.webp 736w" sizes="(max-width: 760px) 92vw, 33vw" width="736" height="512" alt="Aperitivo al Bar degli Specchi" loading="lazy" decoding="async">
+            <span class="tile__l">L’aperitivo della casa →</span>
           </a>
           <a class="tile" href="/#aperitivo" data-reveal>
-            <img src="/assets/img/aperitivo-crostini-736.webp" srcset="/assets/img/aperitivo-crostini-480.webp 480w, /assets/img/aperitivo-crostini-736.webp 736w" sizes="(max-width: 760px) 92vw, 33vw" width="736" height="512" alt="Crostini croccanti con crema dello chef" loading="lazy" decoding="async">
-            <span class="tile__l">Crostini e creme dello chef →</span>
+            <img src="/assets/img/pinsa-gourmet-736.webp" srcset="/assets/img/pinsa-gourmet-480.webp 480w, /assets/img/pinsa-gourmet-736.webp 736w" sizes="(max-width: 760px) 92vw, 33vw" width="736" height="512" alt="Una proposta di stagione dell'aperitivo" loading="lazy" decoding="async">
+            <span class="tile__l">Proposte di stagione →</span>
           </a>
-          <a class="tile" href="/#aperitivo" data-reveal>
-            <img src="/assets/img/pinsa-gourmet-736.webp" srcset="/assets/img/pinsa-gourmet-480.webp 480w, /assets/img/pinsa-gourmet-736.webp 736w" sizes="(max-width: 760px) 92vw, 33vw" width="736" height="512" alt="Tranci di pinsa gourmet" loading="lazy" decoding="async">
-            <span class="tile__l">Tranci di pinsa gourmet →</span>
+          <a class="tile tile--text" href="/menu" data-reveal>
+            <span class="hand tile__hand">caffè, spritz, cocktail…</span>
+            <span class="tile__l">Il menu completo →</span>
           </a>
         </div>
       </div>
@@ -220,18 +220,13 @@
     <!-- APERITIVO -->
     <section class="ape" id="aperitivo" aria-labelledby="ape-t">
       <div class="ape__photo" data-reveal>
-        <img src="/assets/img/aperitivo-crostini-736.webp" srcset="/assets/img/aperitivo-crostini-480.webp 480w, /assets/img/aperitivo-crostini-736.webp 736w" sizes="(max-width: 860px) 100vw, 50vw" width="736" height="512" alt="Crostini croccanti serviti in un cestino di metallo, intinti nella crema dello chef" loading="lazy" decoding="async">
+        <img src="/assets/img/pinsa-gourmet-736.webp" srcset="/assets/img/pinsa-gourmet-480.webp 480w, /assets/img/pinsa-gourmet-736.webp 736w" sizes="(max-width: 860px) 100vw, 50vw" width="736" height="512" alt="Una proposta dell'aperitivo: trancio di pinsa con crema e glassa balsamica" loading="lazy" decoding="async">
       </div>
       <div class="ape__text">
         <p class="kicker kicker--light" data-reveal>L'aperitivo</p>
         <h2 class="h2" id="ape-t" data-reveal>Un aperitivo<br>che vale come<br>una cena.</h2>
         <p class="hand hand--light" data-reveal>da condividere con le persone giuste</p>
-        <ol class="menu" role="list">
-          <li data-reveal><span class="menu__n">01</span><span><strong>Cannoli di bresaola</strong> con formaggio fresco spalmabile e granella di pistacchio</span></li>
-          <li data-reveal><span class="menu__n">02</span><span><strong>Salumi selezionati</strong> e formaggi</span></li>
-          <li data-reveal><span class="menu__n">03</span><span><strong>Crostini croccanti</strong> accompagnati con le creme dello chef</span></li>
-          <li data-reveal><span class="menu__n">04</span><span><strong>Tranci di pinsa gourmet</strong> misti</span></li>
-        </ol>
+        <p class="ape__p" data-reveal>I taglieri e le proposte dell’aperitivo cambiano con la stagione: chiedi al bancone cosa c’è oggi, con lo spritz o il cocktail giusto accanto.</p>
         <p class="ape__note" data-reveal>Basta venirlo a provare.</p>
         <a class="btn btn--cream ape__btn" href="/menu" data-reveal>Sfoglia il menu completo →</a>
       </div>

diff --git a/public/assets/css/style.css b/public/assets/css/style.css
@@ -29,7 +29,7 @@ body { margin: 0; overflow-x: clip; color: var(--ink); font-family: var(--sans);
   background-image: linear-gradient(var(--grid) 1px, transparent 1px), linear-gradient(90deg, var(--grid) 1px, transparent 1px);
   background-size: 34px 34px; }
 img, video, svg, iframe { max-width: 100%; height: auto; display: block; }
-h1, h2, h3, p, a, li { overflow-wrap: break-word; hyphens: auto; }
+h1, h2, h3, p, a, li { overflow-wrap: break-word; hyphens: manual; -webkit-hyphens: manual; }
 h1, h2, h3 { margin: 0; hyphens: manual; -webkit-hyphens: manual; }
 p, figure { margin: 0; }
 a { color: inherit; }
@@ -371,3 +371,11 @@ button { font: inherit; }
 .sbl__cta { display: flex; flex-wrap: wrap; gap: .5rem; margin-top: 1.6rem; }
 .sbl__cta .btn--dark { flex: 1 1 100%; }
 .sbl__cta .btn--line { flex: 1 1 0; padding-inline: 1rem; }
+
+/* Aperitivo stagionale + card testo nelle tiles */
+.ape__p { margin-top: 1.6rem; padding-top: 1.4rem; border-top: 1px solid rgb(243 238 227 / .2); color: rgb(243 238 227 / .85); font-size: clamp(1.05rem, 1rem + .3vw, 1.2rem); max-width: 42ch; }
+.tile--text { display: flex; flex-direction: column; justify-content: space-between; padding: 1.4rem 1.3rem 1.2rem; background: var(--bottle); color: var(--paper); }
+.tile--text::after { display: none; }
+.tile--text .tile__l { position: static; font-size: clamp(1.6rem, 1.2rem + 1.4vw, 2.3rem); letter-spacing: -.03em; line-height: 1; }
+.tile__hand { color: var(--champ-light); transform: rotate(-3deg); transform-origin: left; font-size: clamp(1.5rem, 1.2rem + 1vw, 2rem); }
+@media (hover: hover) { .tile--text:hover { background: var(--bottle-2); } }

diff --git a/public/404.html b/public/404.html
@@ -18,7 +18,7 @@
   <link rel="icon" href="/favicon.ico" sizes="32x32">
   <link rel="apple-touch-icon" href="/apple-touch-icon.png">
   <link rel="manifest" href="/site.webmanifest">
-  <link rel="stylesheet" href="/assets/css/style.css?v=3">
+  <link rel="stylesheet" href="/assets/css/style.css?v=4">
   <link rel="stylesheet" href="/assets/css/cookie-consent.css?v=1">
   <script src="/assets/js/main.js?v=3" defer></script>
   <script src="/assets/js/cookie-consent.js?v=1" defer></script>

diff --git a/public/cookie-policy.html b/public/cookie-policy.html
@@ -19,7 +19,7 @@
   <link rel="icon" href="/favicon.ico" sizes="32x32">
   <link rel="apple-touch-icon" href="/apple-touch-icon.png">
   <link rel="manifest" href="/site.webmanifest">
-  <link rel="stylesheet" href="/assets/css/style.css?v=3">
+  <link rel="stylesheet" href="/assets/css/style.css?v=4">
   <link rel="stylesheet" href="/assets/css/cookie-consent.css?v=1">
   <script src="/assets/js/main.js?v=3" defer></script>
   <script src="/assets/js/cookie-consent.js?v=1" defer></script>

diff --git a/public/menu.html b/public/menu.html
@@ -19,7 +19,7 @@
   <link rel="icon" href="/favicon.ico" sizes="32x32">
   <link rel="apple-touch-icon" href="/apple-touch-icon.png">
   <link rel="manifest" href="/site.webmanifest">
-  <link rel="stylesheet" href="/assets/css/style.css?v=3">
+  <link rel="stylesheet" href="/assets/css/style.css?v=4">
   <link rel="stylesheet" href="/assets/css/cookie-consent.css?v=1">
   <script src="/assets/js/main.js?v=3" defer></script>
   <script src="/assets/js/cookie-consent.js?v=1" defer></script>

diff --git a/public/privacy-policy.html b/public/privacy-policy.html
@@ -19,7 +19,7 @@
   <link rel="icon" href="/favicon.ico" sizes="32x32">
   <link rel="apple-touch-icon" href="/apple-touch-icon.png">
   <link rel="manifest" href="/site.webmanifest">
-  <link rel="stylesheet" href="/assets/css/style.css?v=3">
+  <link rel="stylesheet" href="/assets/css/style.css?v=4">
   <link rel="stylesheet" href="/assets/css/cookie-consent.css?v=1">
   <script src="/assets/js/main.js?v=3" defer></script>
   <script src="/assets/js/cookie-consent.js?v=1" defer></script>

diff --git a/VERSIONI.md b/VERSIONI.md
@@ -14,3 +14,4 @@ Indirizzo: https://bardeglispecchi3.yuvraj-chander.workers.dev
 - Link "Menu" nella navigazione, pulsante "Guarda il menu" nell'hero e "Sfoglia il menu completo" nel blocco aperitivo
 - Corretti refusi del testo ricevuto: Maritozzo, Paste secche, Caffè decaffeinato
 - Nel footer "Sito realizzato da The SBL Company" apre un pop-up su SBL con preventivo su WhatsApp, Instagram e sito
+- Aperitivo: tolto l'elenco numerato dei piatti (le proposte sono stagionali) e sostituito con un testo sulle proposte di stagione; tolta la foto del tagliere da tutto il sito (hero, card, anteprima social); terza card "Il menu completo"; niente più parole spezzate col trattino
